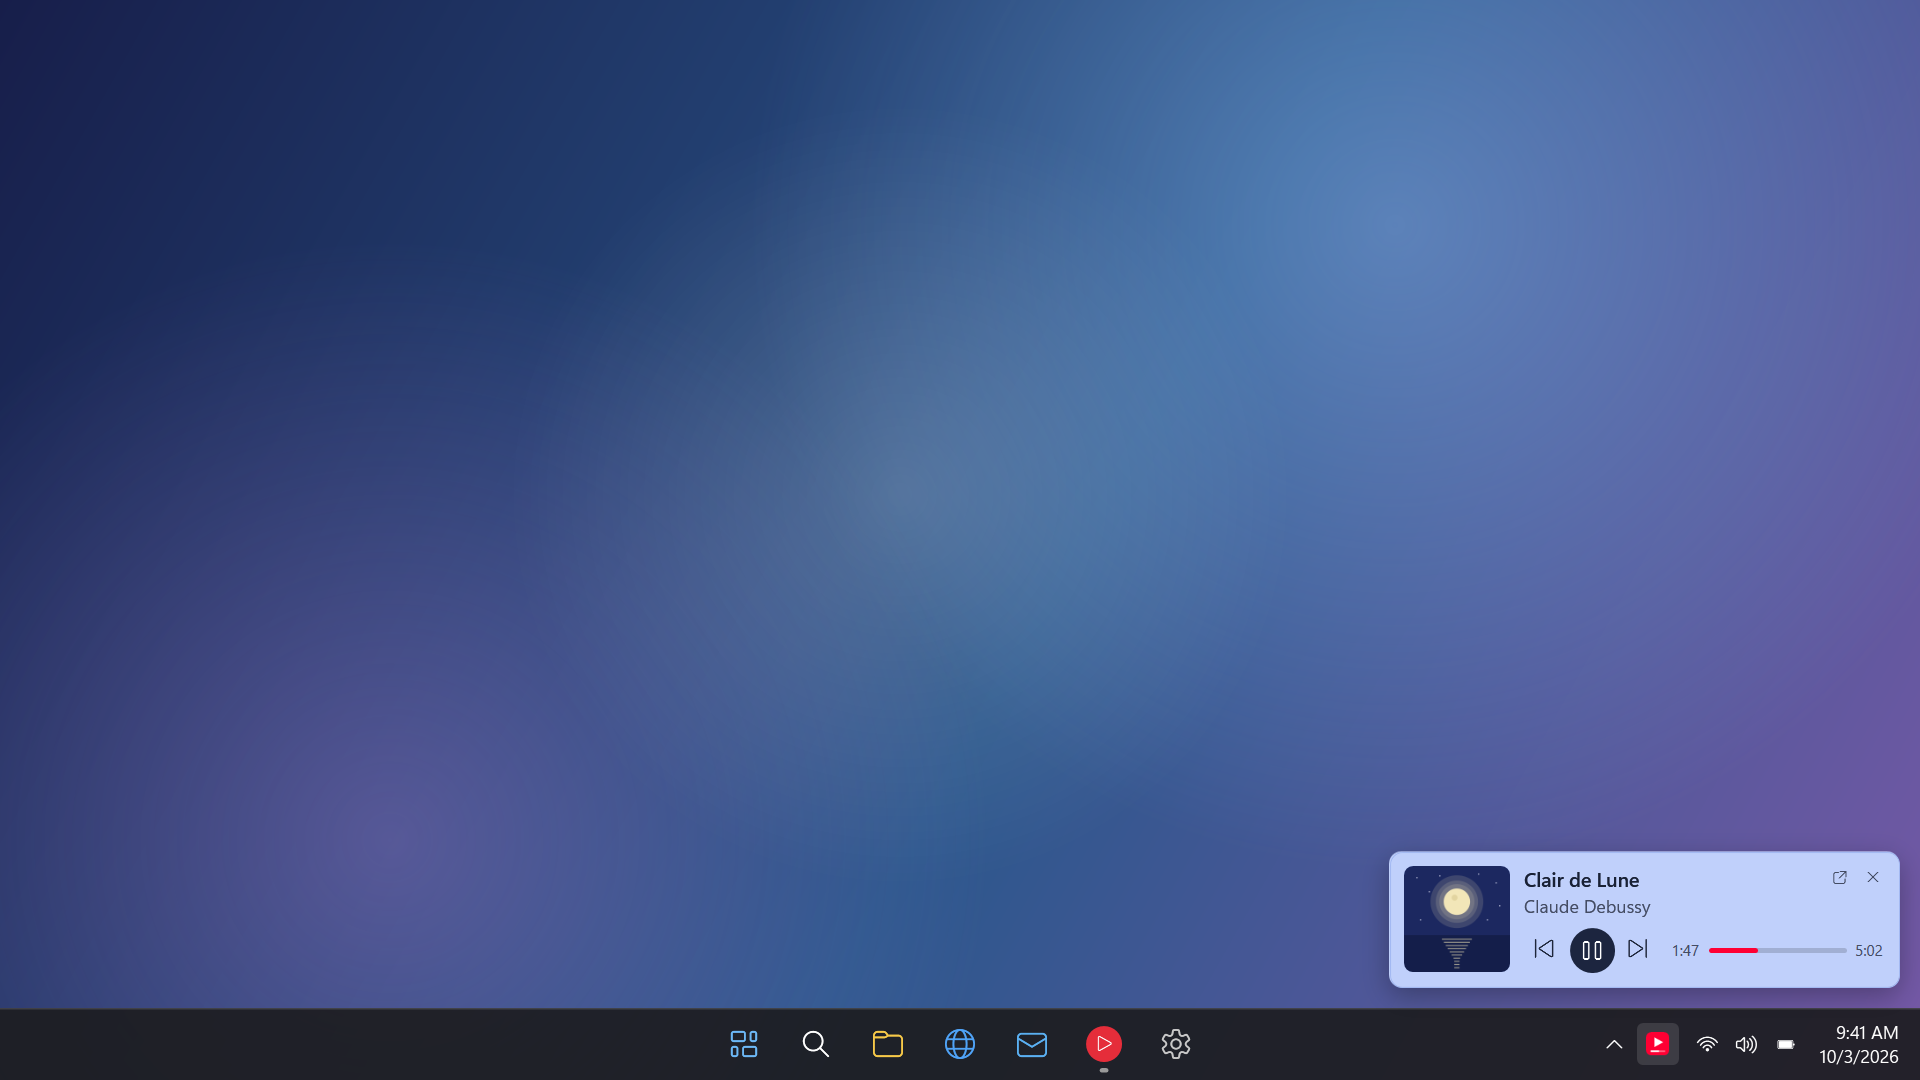
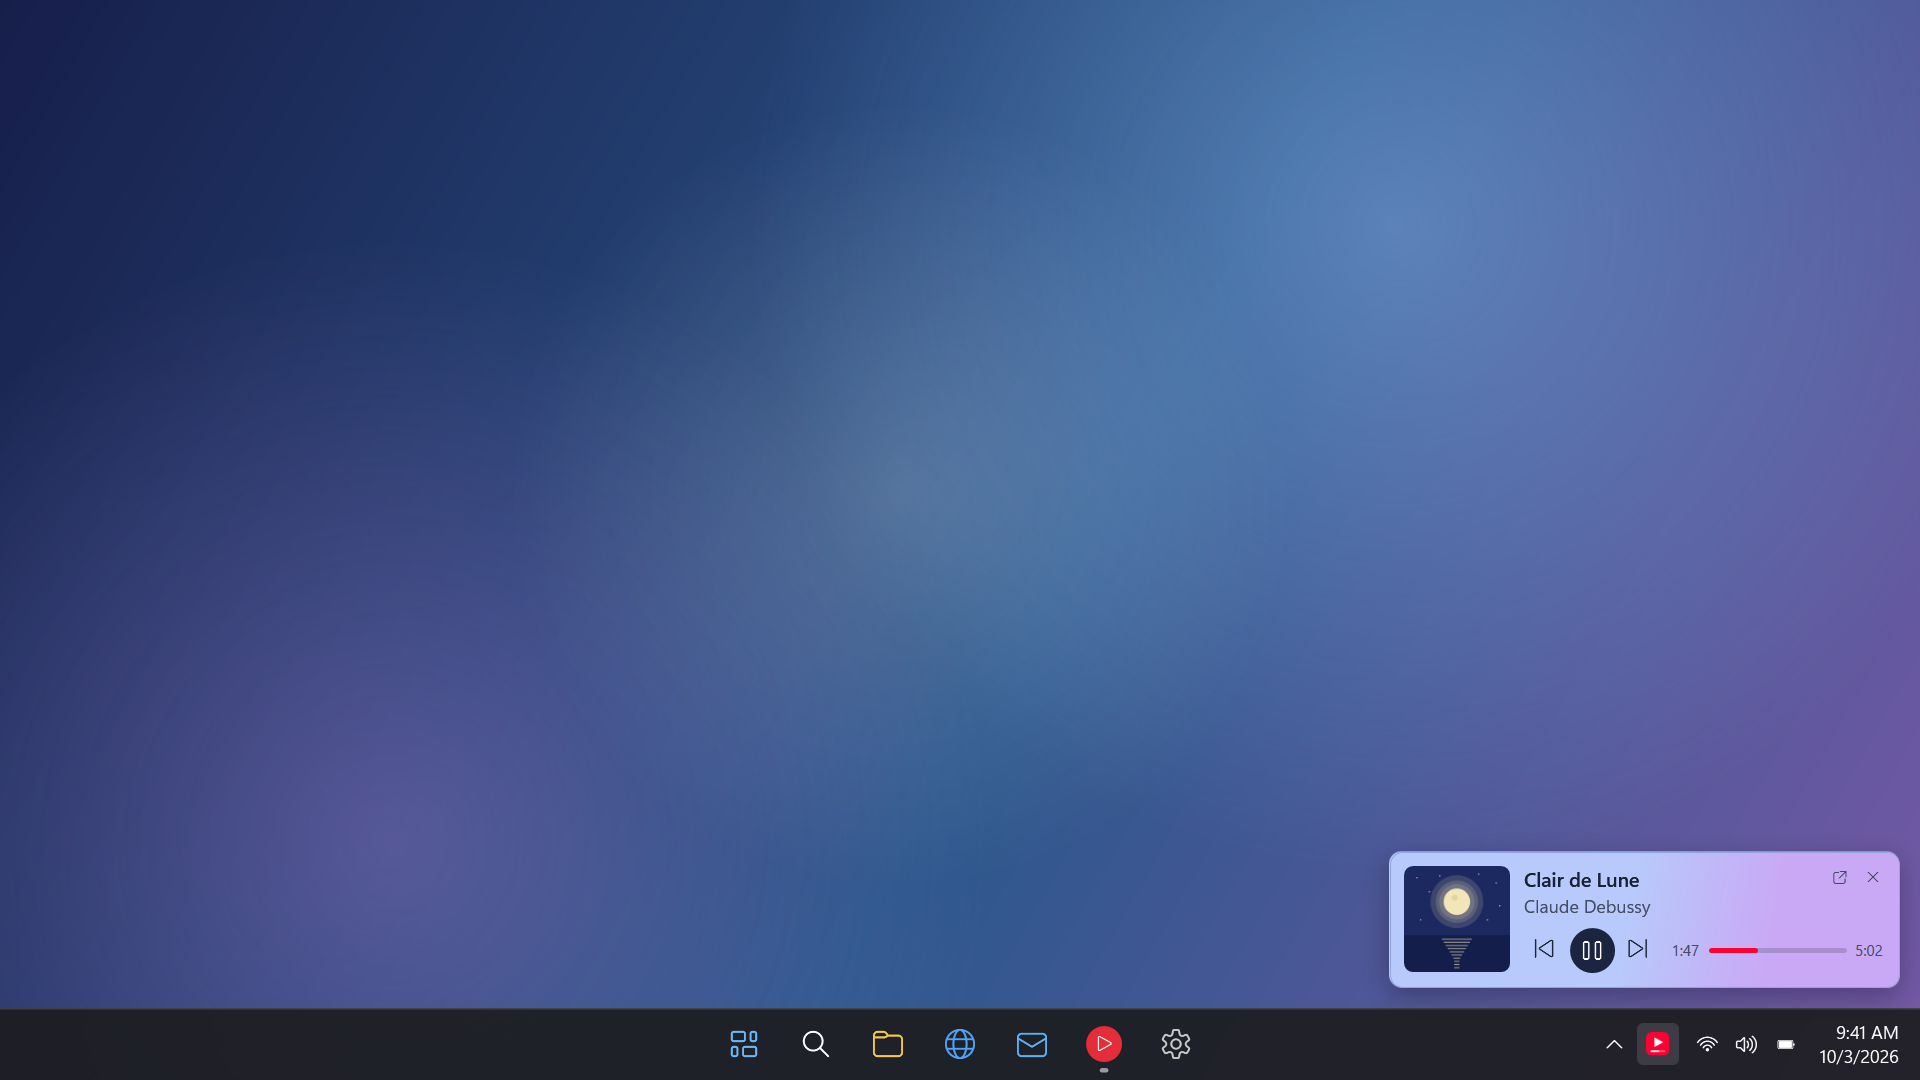
Animated two-color gradient background from the artwork
- Background is a diagonal gradient from the artwork's main color (left) to
  its second color (right, slightly deeper), as OKLCH pastels (chroma 0.11)
- It slowly rocks back and forth (about +/-42 degrees) while the meeting
  point drifts around the middle (style "Tilt", movement 3.0x, speed 2.1x)
- Artwork analysis now finds a clearly different second hue (60+ degrees
  apart, 15%+ as much of the picture); single-color covers get a nearby
  shifted shade on the right
- The edge fade on scrolling text matches whatever color is behind it
- Animation runs only while the player is visible (~0.1% CPU)
- README images re-rendered with the gradient; --preview takes --hue2

Changed region(s): [[0.875, 0.7639, 1.0, 0.9167]]

diff --git a/MiniPlayer.cs b/MiniPlayer.cs
@@ -229,6 +229,15 @@ namespace YTMusicMini
 
         public static double? DominantHue(BitmapSource src)
         {
+            double? second;
+            return DominantHues(src, out second);
+        }
+
+        // The artwork's main hue and, if it has one, a clearly different second hue (at least 60 degrees
+        // around the color wheel away, and covering at least 15% as much of the picture).
+        public static double? DominantHues(BitmapSource src, out double? second)
+        {
+            second = null;
             try
             {
                 double scale = 40.0 / Math.Max(src.PixelWidth, src.PixelHeight);
@@ -262,45 +271,69 @@ namespace YTMusicMini
                 }
                 if (colorful < 0.06 * (w * h)) return null;
 
+                var scores = new double[36];
                 int best = 0;
-                double bestScore = -1;
                 for (int i = 0; i < 36; i++)
                 {
-                    double score = weight[i] + 0.5 * (weight[(i + 35) % 36] + weight[(i + 1) % 36]);
-                    if (score > bestScore) { bestScore = score; best = i; }
+                    scores[i] = weight[i] + 0.5 * (weight[(i + 35) % 36] + weight[(i + 1) % 36]);
+                    if (scores[i] > scores[best]) best = i;
                 }
-                double c = 0, sn = 0;
-                for (int k = -1; k <= 1; k++) { int i = (best + k + 36) % 36; c += cos[i]; sn += sin[i]; }
-                double result = Math.Atan2(sn, c) * 180 / Math.PI;
-                return result < 0 ? result + 360 : result;
+                int next = -1;
+                for (int i = 0; i < 36; i++)
+                {
+                    int apart = Math.Abs(i - best);
+                    if (Math.Min(apart, 36 - apart) < 6 || scores[i] < 0.15 * scores[best]) continue;
+                    if (next < 0 || scores[i] > scores[next]) next = i;
+                }
+                if (next >= 0) second = BinHue(next, cos, sin);
+                return BinHue(best, cos, sin);
             }
             catch { return null; }
         }
+
+        // The average hue of a bin and its two neighbours.
+        static double BinHue(int bin, double[] cos, double[] sin)
+        {
+            double c = 0, sn = 0;
+            for (int k = -1; k <= 1; k++) { int i = (bin + k + 36) % 36; c += cos[i]; sn += sin[i]; }
+            double result = Math.Atan2(sn, c) * 180 / Math.PI;
+            return result < 0 ? result + 360 : result;
+        }
     }
 
-    // All colors of the player, derived from the artwork's main color. The time bar always stays red.
+    // All colors of the player, derived from the artwork. The time bar always stays red.
     // Colors are built in OKLCH (lightness, chroma = colorfulness, hue): equal lightness there looks
     // equally bright to the eye, so every artwork color gets the same light-but-colorful look.
     class Theme
     {
-        // The background style ("vivid pastel"): its lightness and colorfulness.
-        public const double BgLightness = 0.86, BgChroma = 0.085;
+        // The background: a gradient from the artwork's main color (left) to its second color (right,
+        // a little deeper). With only one main color, the right side uses a nearby, shifted hue.
+        public const double BgLightness = 0.84, Bg2Lightness = 0.79, BgChroma = 0.11, SecondHueShift = 35;
+        // Lightness and colorfulness of the artwork placeholder and border, from the main color.
+        const double ShadeLightness = 0.79, ShadeChroma = 0.085;
 
-        public Color Bg, Border, Title, Sub, Icon, PlayBg, PlayBgHover, PlayFg, Track, Time, Hover, Press, Placeholder;
+        public Color Bg, Bg2, Border, Title, Sub, Icon, PlayBg, PlayBgHover, PlayFg, Track, Time, Hover, Press, Placeholder;
 
-        public static Theme For(double? artHue)
+        // The artwork hue is an HSV hue; take a typical color of that hue and find its OKLCH hue.
+        static double ToOkHue(double artHue)
         {
-            double h = 0, c = 0;
+            double[] rgb = Hsv(artHue, 0.75, 0.85);
+            return OkHue(rgb[0], rgb[1], rgb[2]);
+        }
+
+        public static Theme For(double? artHue, double? secondHue)
+        {
+            double h = 0, h2 = 0, c = 0;
             if (artHue.HasValue)
             {
-                // The artwork hue is an HSV hue; take a typical color of that hue and find its OKLCH hue.
-                double[] rgb = Hsv(artHue.Value, 0.75, 0.85);
-                h = OkHue(rgb[0], rgb[1], rgb[2]);
+                h = ToOkHue(artHue.Value);
+                h2 = secondHue.HasValue ? ToOkHue(secondHue.Value) : (h + SecondHueShift) % 360;
                 c = 1;
             }
             var t = new Theme();
             t.Bg = Ok(BgLightness, BgChroma * c, h);
-            t.Border = Ok(BgLightness - 0.07, BgChroma * c, h);
+            t.Bg2 = Ok(Bg2Lightness, BgChroma * c, h2);
+            t.Border = Ok(ShadeLightness - 0.06, ShadeChroma * c, h);
             t.Title = Ok(0.25, 0.04 * c, h);
             t.Sub = Ok(0.42, 0.04 * c, h);
             t.Icon = Ok(0.27, 0.04 * c, h);
@@ -311,7 +344,7 @@ namespace YTMusicMini
             t.Time = Ok(0.42, 0.04 * c, h);
             t.Hover = Color.FromArgb(0x1A, 0, 0, 0);
             t.Press = Color.FromArgb(0x30, 0, 0, 0);
-            t.Placeholder = Ok(BgLightness - 0.07, BgChroma * c, h);
+            t.Placeholder = Ok(ShadeLightness, ShadeChroma * c, h);
             return t;
         }
 
@@ -370,6 +403,7 @@ namespace YTMusicMini
             // The original dark look, used until the first artwork arrives.
             var t = new Theme();
             t.Bg = Color.FromRgb(0x20, 0x20, 0x20);
+            t.Bg2 = Color.FromRgb(0x20, 0x20, 0x20);
             t.Border = Color.FromRgb(0x3A, 0x3A, 0x3A);
             t.Title = Colors.White;
             t.Sub = Color.FromRgb(0xAA, 0xAA, 0xAA);
@@ -385,7 +419,7 @@ namespace YTMusicMini
             return t;
         }
 
-        static Color Mix(Color a, Color b, double p)
+        public static Color Mix(Color a, Color b, double p)
         {
             return Color.FromArgb((byte)Math.Round(a.A + (b.A - a.A) * p), (byte)Math.Round(a.R + (b.R - a.R) * p),
                                   (byte)Math.Round(a.G + (b.G - a.G) * p), (byte)Math.Round(a.B + (b.B - a.B) * p));
@@ -394,7 +428,7 @@ namespace YTMusicMini
         public static Theme Lerp(Theme a, Theme b, double p)
         {
             var t = new Theme();
-            t.Bg = Mix(a.Bg, b.Bg, p); t.Border = Mix(a.Border, b.Border, p); t.Title = Mix(a.Title, b.Title, p);
+            t.Bg = Mix(a.Bg, b.Bg, p); t.Bg2 = Mix(a.Bg2, b.Bg2, p); t.Border = Mix(a.Border, b.Border, p); t.Title = Mix(a.Title, b.Title, p);
             t.Sub = Mix(a.Sub, b.Sub, p); t.Icon = Mix(a.Icon, b.Icon, p); t.PlayBg = Mix(a.PlayBg, b.PlayBg, p);
             t.PlayBgHover = Mix(a.PlayBgHover, b.PlayBgHover, p); t.PlayFg = Mix(a.PlayFg, b.PlayFg, p);
             t.Track = Mix(a.Track, b.Track, p); t.Time = Mix(a.Time, b.Time, p); t.Hover = Mix(a.Hover, b.Hover, p);
@@ -419,7 +453,7 @@ namespace YTMusicMini
         public TimeSpan Position, Duration;
         public DateTimeOffset UpdatedAt;
         public ImageSource Art;
-        public double? Hue;
+        public double? Hue, Hue2;
         public int ArtVersion;
 
         public async Task Init()
@@ -563,7 +597,7 @@ namespace YTMusicMini
                     {
                         artBytes = bytes;
                         Art = bmp;
-                        Hue = ArtColor.DominantHue(bmp);
+                        Hue = ArtColor.DominantHues(bmp, out Hue2);
                         artSongKey = key;
                         ArtVersion++;
                     }
@@ -785,6 +819,11 @@ namespace YTMusicMini
 
         readonly Border root;
         Brush placeholder = Brushes.Transparent;
+        readonly LinearGradientBrush background = new LinearGradientBrush { MappingMode = BrushMappingMode.Absolute };
+        readonly GradientStop stopA = new GradientStop(), stopB = new GradientStop(), stopC = new GradientStop(), stopD = new GradientStop { Offset = 1 };
+        readonly Stopwatch gradientClock = Stopwatch.StartNew();
+        readonly DispatcherTimer gradientTimer = new DispatcherTimer(DispatcherPriority.Render) { Interval = TimeSpan.FromMilliseconds(33) };
+        Point gradientStart, gradientEnd;
         IntPtr hwnd;
         double alpha;
         Anim fadeAnim, moveAnim, themeAnim;
@@ -833,6 +872,9 @@ namespace YTMusicMini
             Knob = (Ellipse)root.FindName("Knob");
             TitleFade = (Rectangle)root.FindName("TitleFade");
             ArtistFade = (Rectangle)root.FindName("ArtistFade");
+            foreach (var stop in new[] { stopA, stopB, stopC, stopD }) background.GradientStops.Add(stop);
+            root.Background = background;
+            gradientTimer.Tick += delegate { UpdateGradient(gradientClock.Elapsed.TotalSeconds * GradientSpeed); };
             titleMarquee = new Marquee(TitleBox, TitleText, TitleFade);
             artistMarquee = new Marquee(ArtistBox, ArtistText, ArtistFade);
             marqueeTimer.Tick += delegate
@@ -957,6 +999,8 @@ namespace YTMusicMini
             FadeTo(1, 230, null);
             moveAnim = Anim.Run(280, p => MoveTo(fromX + (x - fromX) * p, fromY + (y - fromY) * p), null);
             RefreshMarquees();
+            UpdateGradient(gradientClock.Elapsed.TotalSeconds * GradientSpeed);
+            gradientTimer.Start();
         }
 
         // Fades out while dipping down a little, then hides.
@@ -974,6 +1018,7 @@ namespace YTMusicMini
                 MoveTo(x, y);
                 Hiding = false;
                 StopMarquees();
+                gradientTimer.Stop();
             });
         }
 
@@ -1000,12 +1045,57 @@ namespace YTMusicMini
             return b;
         }
 
+        // The moving background: a diagonal blend from the artwork's main color (left) to its second
+        // color (right) that slowly rocks back and forth while the meeting point drifts around the middle.
+        const double GradientMovement = 3.0, GradientSpeed = 2.1, GradientBlend = 0.14;
+
+        void UpdateGradient(double t)
+        {
+            double w = root.ActualWidth > 0 ? root.ActualWidth : Width, h = root.ActualHeight > 0 ? root.ActualHeight : Height;
+            double angle = (100 + 14 * GradientMovement * Math.Sin(t * 0.35)) * Math.PI / 180;
+            double mid = 0.5 + 0.04 * GradientMovement * Math.Sin(t * 0.5 + 1);
+            double dx = Math.Sin(angle), dy = -Math.Cos(angle), length = Math.Abs(w * dx) + Math.Abs(h * dy);
+            gradientStart = new Point(w / 2 - dx * length / 2, h / 2 - dy * length / 2);
+            gradientEnd = new Point(w / 2 + dx * length / 2, h / 2 + dy * length / 2);
+            background.StartPoint = gradientStart;
+            background.EndPoint = gradientEnd;
+            stopB.Offset = Math.Max(0, mid - GradientBlend);
+            stopC.Offset = Math.Min(1, mid + GradientBlend);
+            UpdateFades();
+        }
+
+        // The background color at a point on the player.
+        Color BackgroundAt(Point p)
+        {
+            double vx = gradientEnd.X - gradientStart.X, vy = gradientEnd.Y - gradientStart.Y, length2 = vx * vx + vy * vy;
+            double f = length2 > 0 ? ((p.X - gradientStart.X) * vx + (p.Y - gradientStart.Y) * vy) / length2 : 0;
+            if (f <= stopB.Offset) return stopA.Color;
+            if (f >= stopC.Offset) return stopD.Color;
+            return Theme.Mix(stopB.Color, stopC.Color, (f - stopB.Offset) / (stopC.Offset - stopB.Offset));
+        }
+
+        // The soft fade at the right edge of scrolling text is painted in whatever color is behind it.
+        void UpdateFades()
+        {
+            foreach (var fade in new[] { TitleFade, ArtistFade })
+            {
+                if (fade.Visibility != Visibility.Visible || fade.ActualWidth <= 0) continue;
+                Color c = BackgroundAt(fade.TranslatePoint(new Point(fade.ActualWidth / 2, fade.ActualHeight / 2), root));
+                var edge = new LinearGradientBrush(Color.FromArgb(0, c.R, c.G, c.B), c, 0);
+                edge.Freeze();
+                fade.Fill = edge;
+            }
+        }
+
         // Fresh brushes every time (WPF locks brushes that styles and templates have used, so they
         // can't be recolored in place). Called once per frame while a theme change animates.
         void SetColors(Theme t)
         {
             shown = t;
-            root.Background = B(t.Bg);
+            stopA.Color = t.Bg;
+            stopB.Color = t.Bg;
+            stopC.Color = t.Bg2;
+            stopD.Color = t.Bg2;
             root.BorderBrush = B(t.Border);
             TitleText.Foreground = B(t.Title);
             Brush sub = B(t.Sub), icon = B(t.Icon), time = B(t.Time);
@@ -1027,11 +1117,7 @@ namespace YTMusicMini
             if (ArtFront.Background == placeholder || ArtFront.Background == null) ArtFront.Background = newPlaceholder;
             if (ArtBack.Background == placeholder) ArtBack.Background = newPlaceholder;
             placeholder = newPlaceholder;
-            // The soft fade at the right edge of scrolling text is painted in the background color.
-            var edge = new LinearGradientBrush(Color.FromArgb(0, t.Bg.R, t.Bg.G, t.Bg.B), t.Bg, 0);
-            edge.Freeze();
-            TitleFade.Fill = edge;
-            ArtistFade.Fill = edge;
+            UpdateFades();
         }
 
         // Crossfades from the previous artwork to the new one.
@@ -1141,6 +1227,7 @@ namespace YTMusicMini
             stage.Arrange(new Rect(0, 0, stage.Width, stage.Height));
             stage.UpdateLayout();
             ShowFraction(fraction);
+            UpdateGradient(0);
             stage.UpdateLayout();
             var image = new RenderTargetBitmap((int)(stage.Width * scale), (int)(stage.Height * scale), 96 * scale, 96 * scale, PixelFormats.Pbgra32);
             image.Render(stage);
@@ -1438,7 +1525,7 @@ namespace YTMusicMini
                         o.Artist ?? "Harvey Spector • Premam (Original Motion Picture Soundtrack)", false);
             win.CurText.Text = o.Position ?? "1:32";
             win.DurText.Text = o.Duration ?? "3:48";
-            double? hue = o.Hue;
+            double? hue = o.Hue, hue2 = o.Hue2;
             if (o.ArtPath != null)
             {
                 var art = new BitmapImage();
@@ -1449,9 +1536,9 @@ namespace YTMusicMini
                 art.EndInit();
                 art.Freeze();
                 win.SetArt(art, false);
-                hue = ArtColor.DominantHue(art);
+                hue = ArtColor.DominantHues(art, out hue2);
             }
-            win.ApplyTheme(Theme.For(hue), false);
+            win.ApplyTheme(Theme.For(hue, hue2), false);
             double fraction = Fraction(win.CurText.Text, win.DurText.Text);
             if (o.SnapshotPath != null)
             {
@@ -1617,7 +1704,7 @@ namespace YTMusicMini
             {
                 shownArtVersion = media.ArtVersion;
                 win.SetArt(media.Art);
-                if (media.Art != null) win.ApplyTheme(Theme.For(media.Hue), win.IsVisible);
+                if (media.Art != null) win.ApplyTheme(Theme.For(media.Hue, media.Hue2), win.IsVisible);
             }
             RenderPosition();
         }
@@ -1713,11 +1800,11 @@ namespace YTMusicMini
     }
 
     // Sample data for "--preview": an optional hue right after the flag ("--preview 140" looks like a
-    // green album), plus --title, --artist, --art <image>, --position m:ss, --duration m:ss,
-    // --snapshot <file.png> and --desktop (snapshot the player on a simulated Windows desktop).
+    // green album), plus --hue2 <second hue>, --title, --artist, --art <image>, --position m:ss,
+    // --duration m:ss, --snapshot <file.png> and --desktop (snapshot on a simulated Windows desktop).
     class PreviewOptions
     {
-        public double? Hue;
+        public double? Hue, Hue2;
         public string Title, Artist, ArtPath, Position, Duration, SnapshotPath;
         public bool Desktop;
 
@@ -1734,6 +1821,9 @@ namespace YTMusicMini
             o.Duration = Value(args, "--duration");
             o.SnapshotPath = Value(args, "--snapshot");
             o.Desktop = Array.IndexOf(args, "--desktop") >= 0;
+            string second = Value(args, "--hue2");
+            if (second != null && double.TryParse(second, System.Globalization.NumberStyles.Float,
+                    System.Globalization.CultureInfo.InvariantCulture, out h)) o.Hue2 = h;
             return o;
         }
 

diff --git a/README.md b/README.md
@@ -19,7 +19,7 @@ The mini player shows:
 - a button to reopen YouTube Music, and one to hide the player until the next minimize
 
 Little touches:
-- **Colors from the artwork:** the background is a vivid pastel of each song's main artwork color, built in OKLCH (a color model where equal lightness looks equally bright), so every color gets the same light-but-colorful look. It fades to the next song's color.
+- **Colors from the artwork:** the background is a slowly rocking diagonal gradient from the artwork's main color (left) to its second color (right), as light, vivid pastels built in OKLCH (a color model where equal lightness looks equally bright). Covers with a single main color get a nearby shifted shade on the right. It fades to the next song's colors.
 - **Smooth animations:** it fades and slides in when you minimize, and the artwork crossfades between songs.
 - **Sharp on every monitor:** it renders at each monitor's own display scaling, with pixel-snapped text that stays crisp while it scrolls.
 - **Snaps to the bottom:** drop it near the bottom edge or a bottom corner and it glides into place. Anywhere else, it stays where you drop it. It remembers the spot, and a snapped corner stays that corner even if monitors or scaling change.
@@ -63,7 +63,7 @@ To check the design without touching any media:
 
 `--preview` also takes `--title`, `--artist`, `--art <image>`, `--position m:ss`, `--duration m:ss`, `--snapshot <file.png>` and `--desktop` (snapshot on a simulated Windows desktop).
 
-The background style lives in `Theme.BgLightness` and `Theme.BgChroma` in `MiniPlayer.cs`.
+The background colors live in `Theme` (`BgLightness`, `Bg2Lightness`, `BgChroma`) and the motion in `MiniWindow` (`GradientMovement`, `GradientSpeed`) in `MiniPlayer.cs`. `--preview` also takes `--hue2` to set the right-hand color.
 
 ## Files
 
